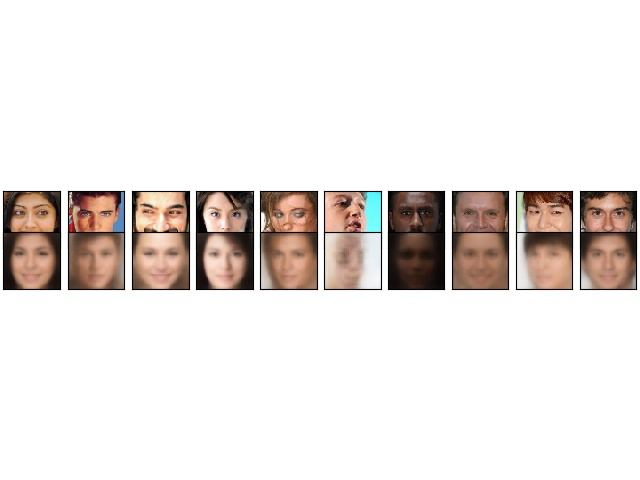
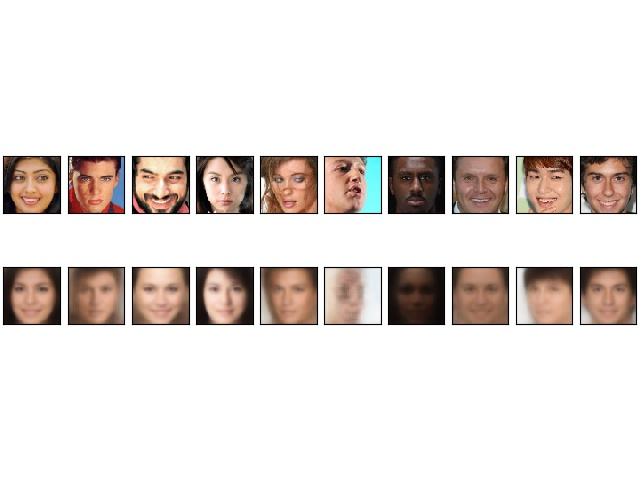
plot

Changed region(s): [[0.0, 0.3125, 1.0, 0.6875]]

diff --git a/hw4/ACGAN/train.py b/hw4/ACGAN/train.py
@@ -181,7 +181,7 @@ def train(data_loader, model_index, x_eval_train, gn_fp, dn_fp, gan_gn_fp, gan_d
             print("Process: {}/{}".format(step, int(AVAILABLE_SIZE[0] / BATCHSIZE)), end="\r")
 
             ### train true/false pic
-            if (step // PIVOT_STEPS) % 4 != 0 :
+            if (step // PIVOT_STEPS) % 3 != 0 :
                 dn.training = True
                 if step % 2 == 0 :
                     img.data.copy_(x_batch)

diff --git a/hw4/VAE/problems.py b/hw4/VAE/problems.py
@@ -180,7 +180,7 @@ def test_plot(dataset_fp, model_fp, out_fp) :
         plt.imshow(img)
 
 
-    plt.tight_layout(pad=0.0, h_pad=-20.0)
+    plt.tight_layout(pad=0.0, h_pad=-10.0)
     plt.savefig(os.path.join(out_fp, "fig1_3.jpg"))
 
 
